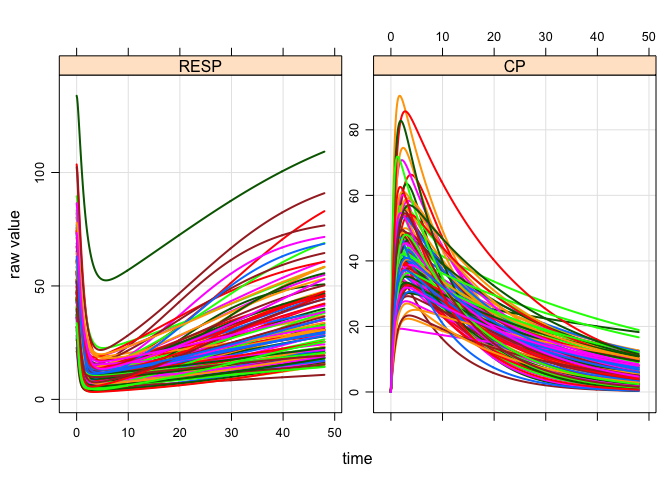
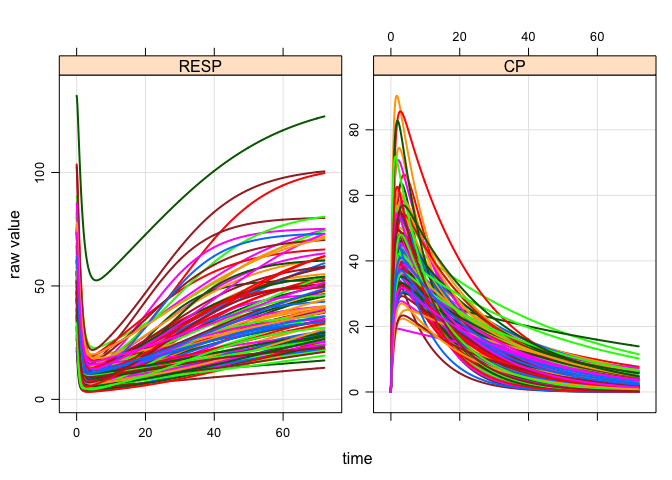
sensi demo

diff --git a/demo/sensi.md b/demo/sensi.md
@@ -60,7 +60,7 @@ Simulate the response
 mod %>%
   ev(amt=1000) %>%
   idata_set(pars) %>%
-  mrgsim(end=48,delta=0.1) %>%
+  mrgsim(end=72,delta=0.1) %>%
   plot
 ```
 
